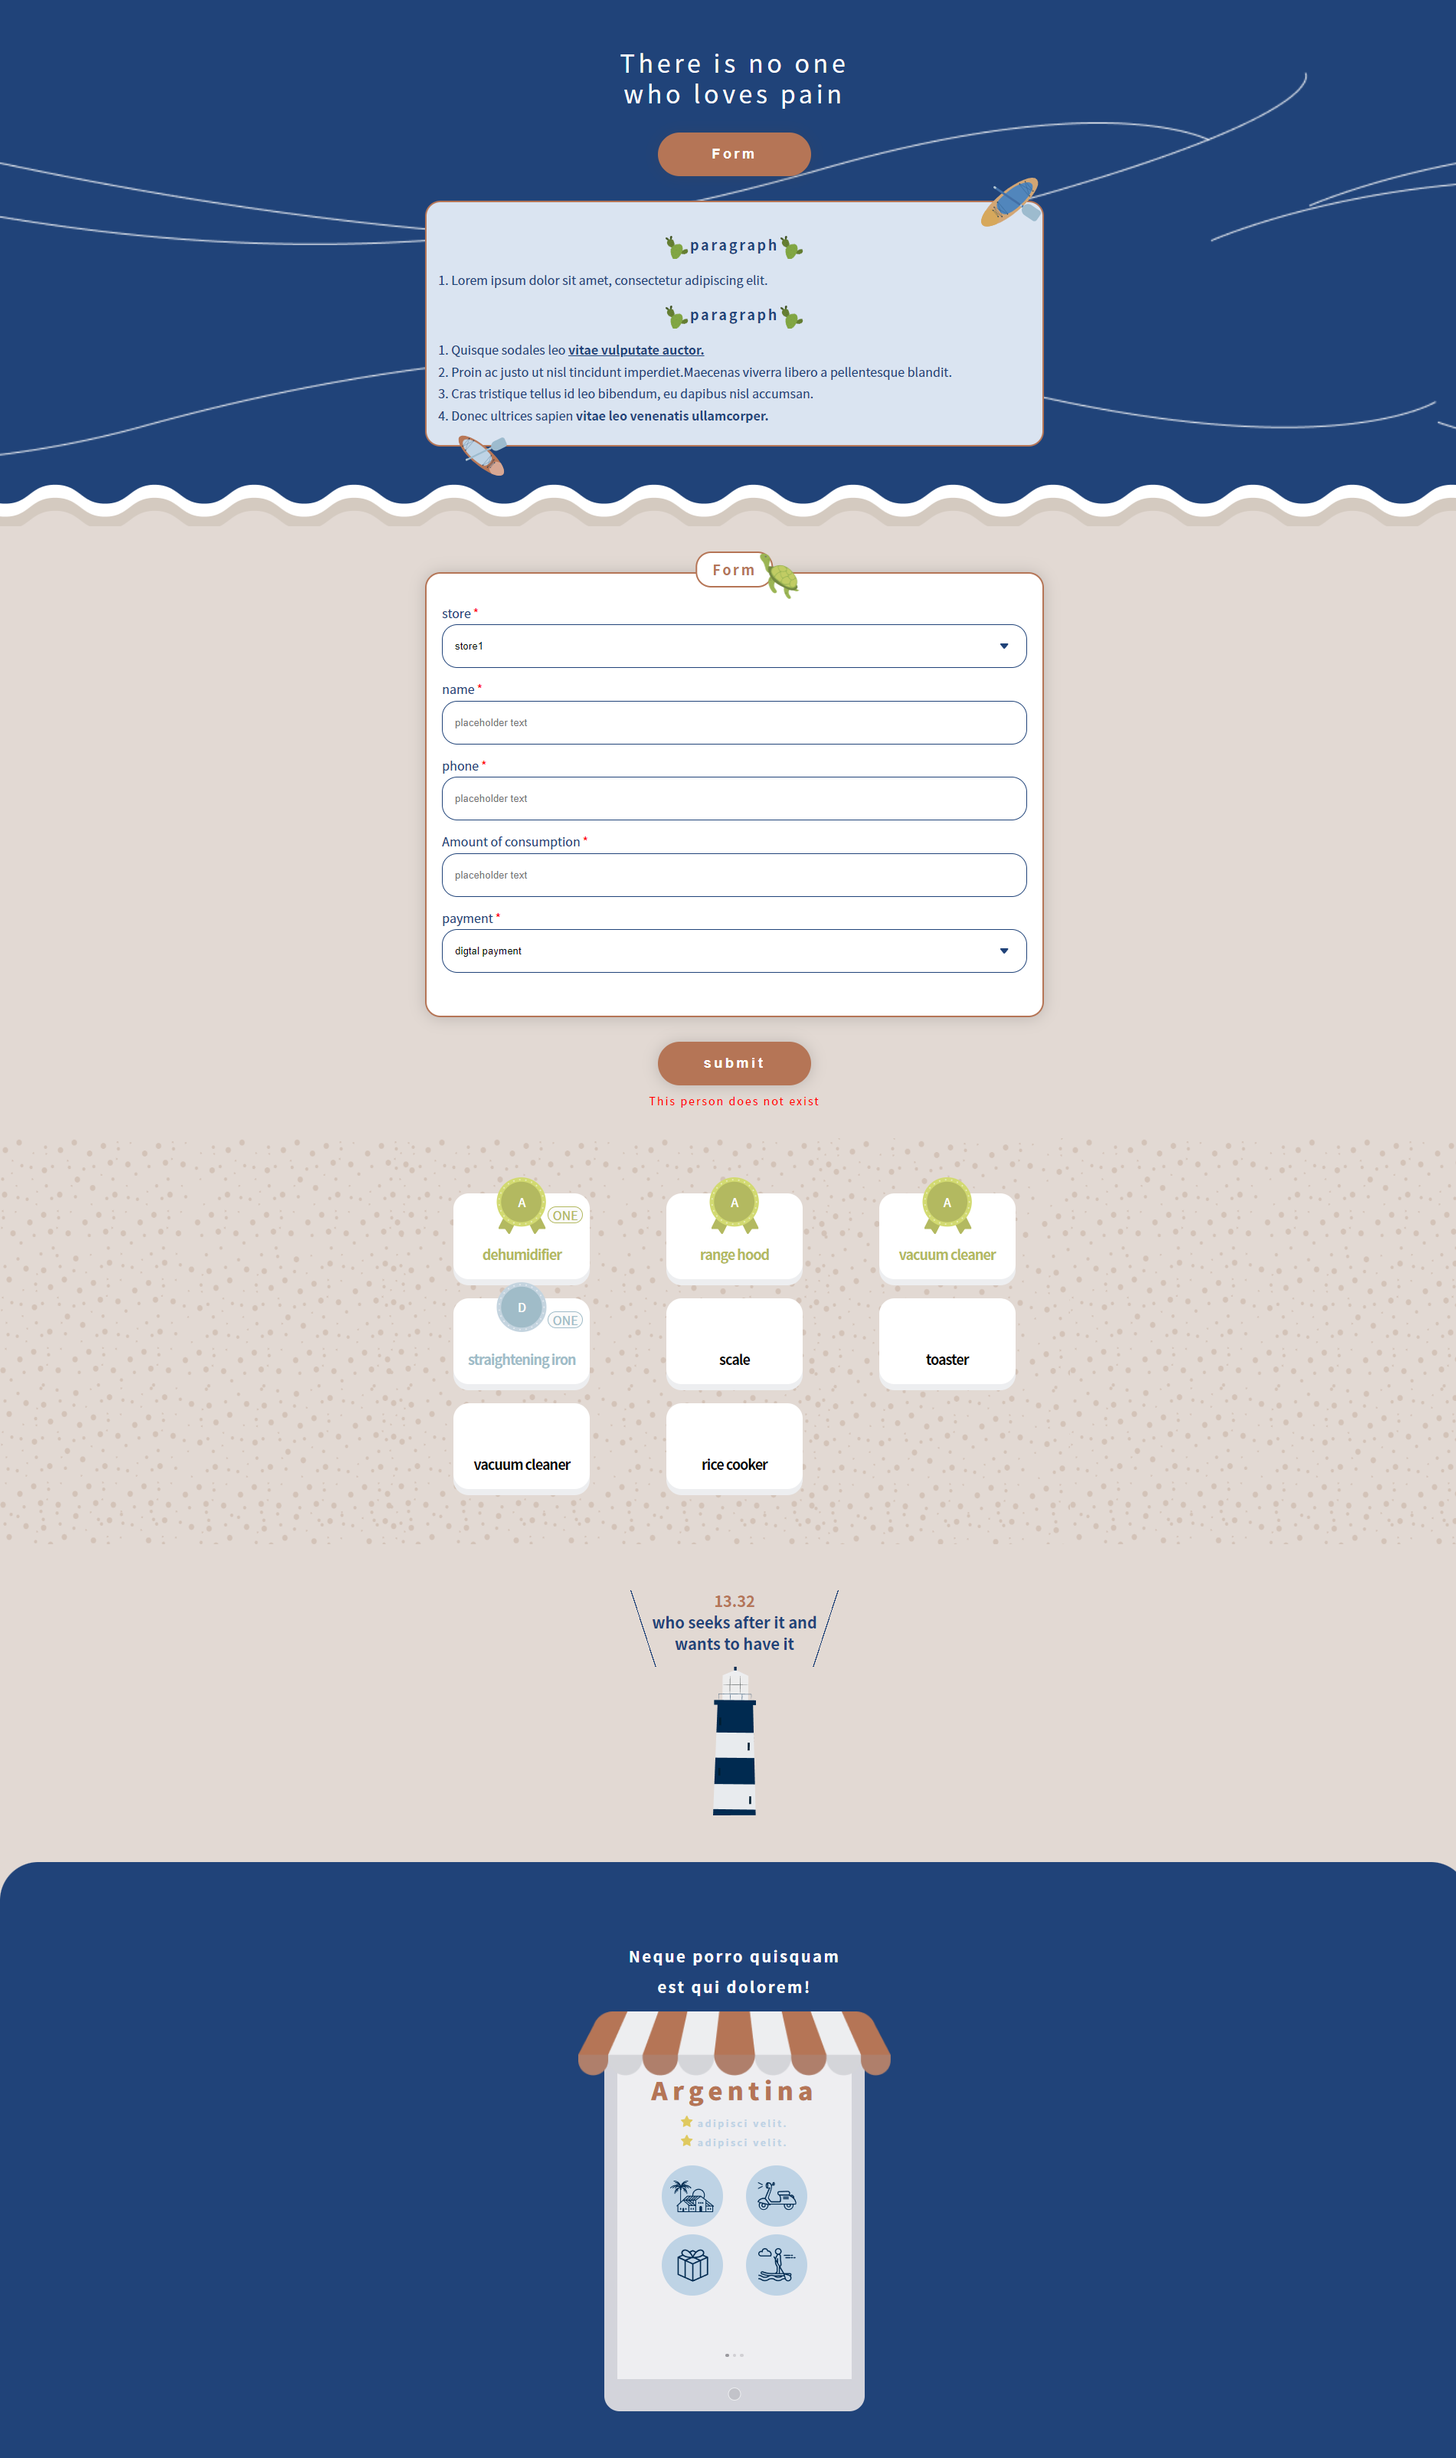
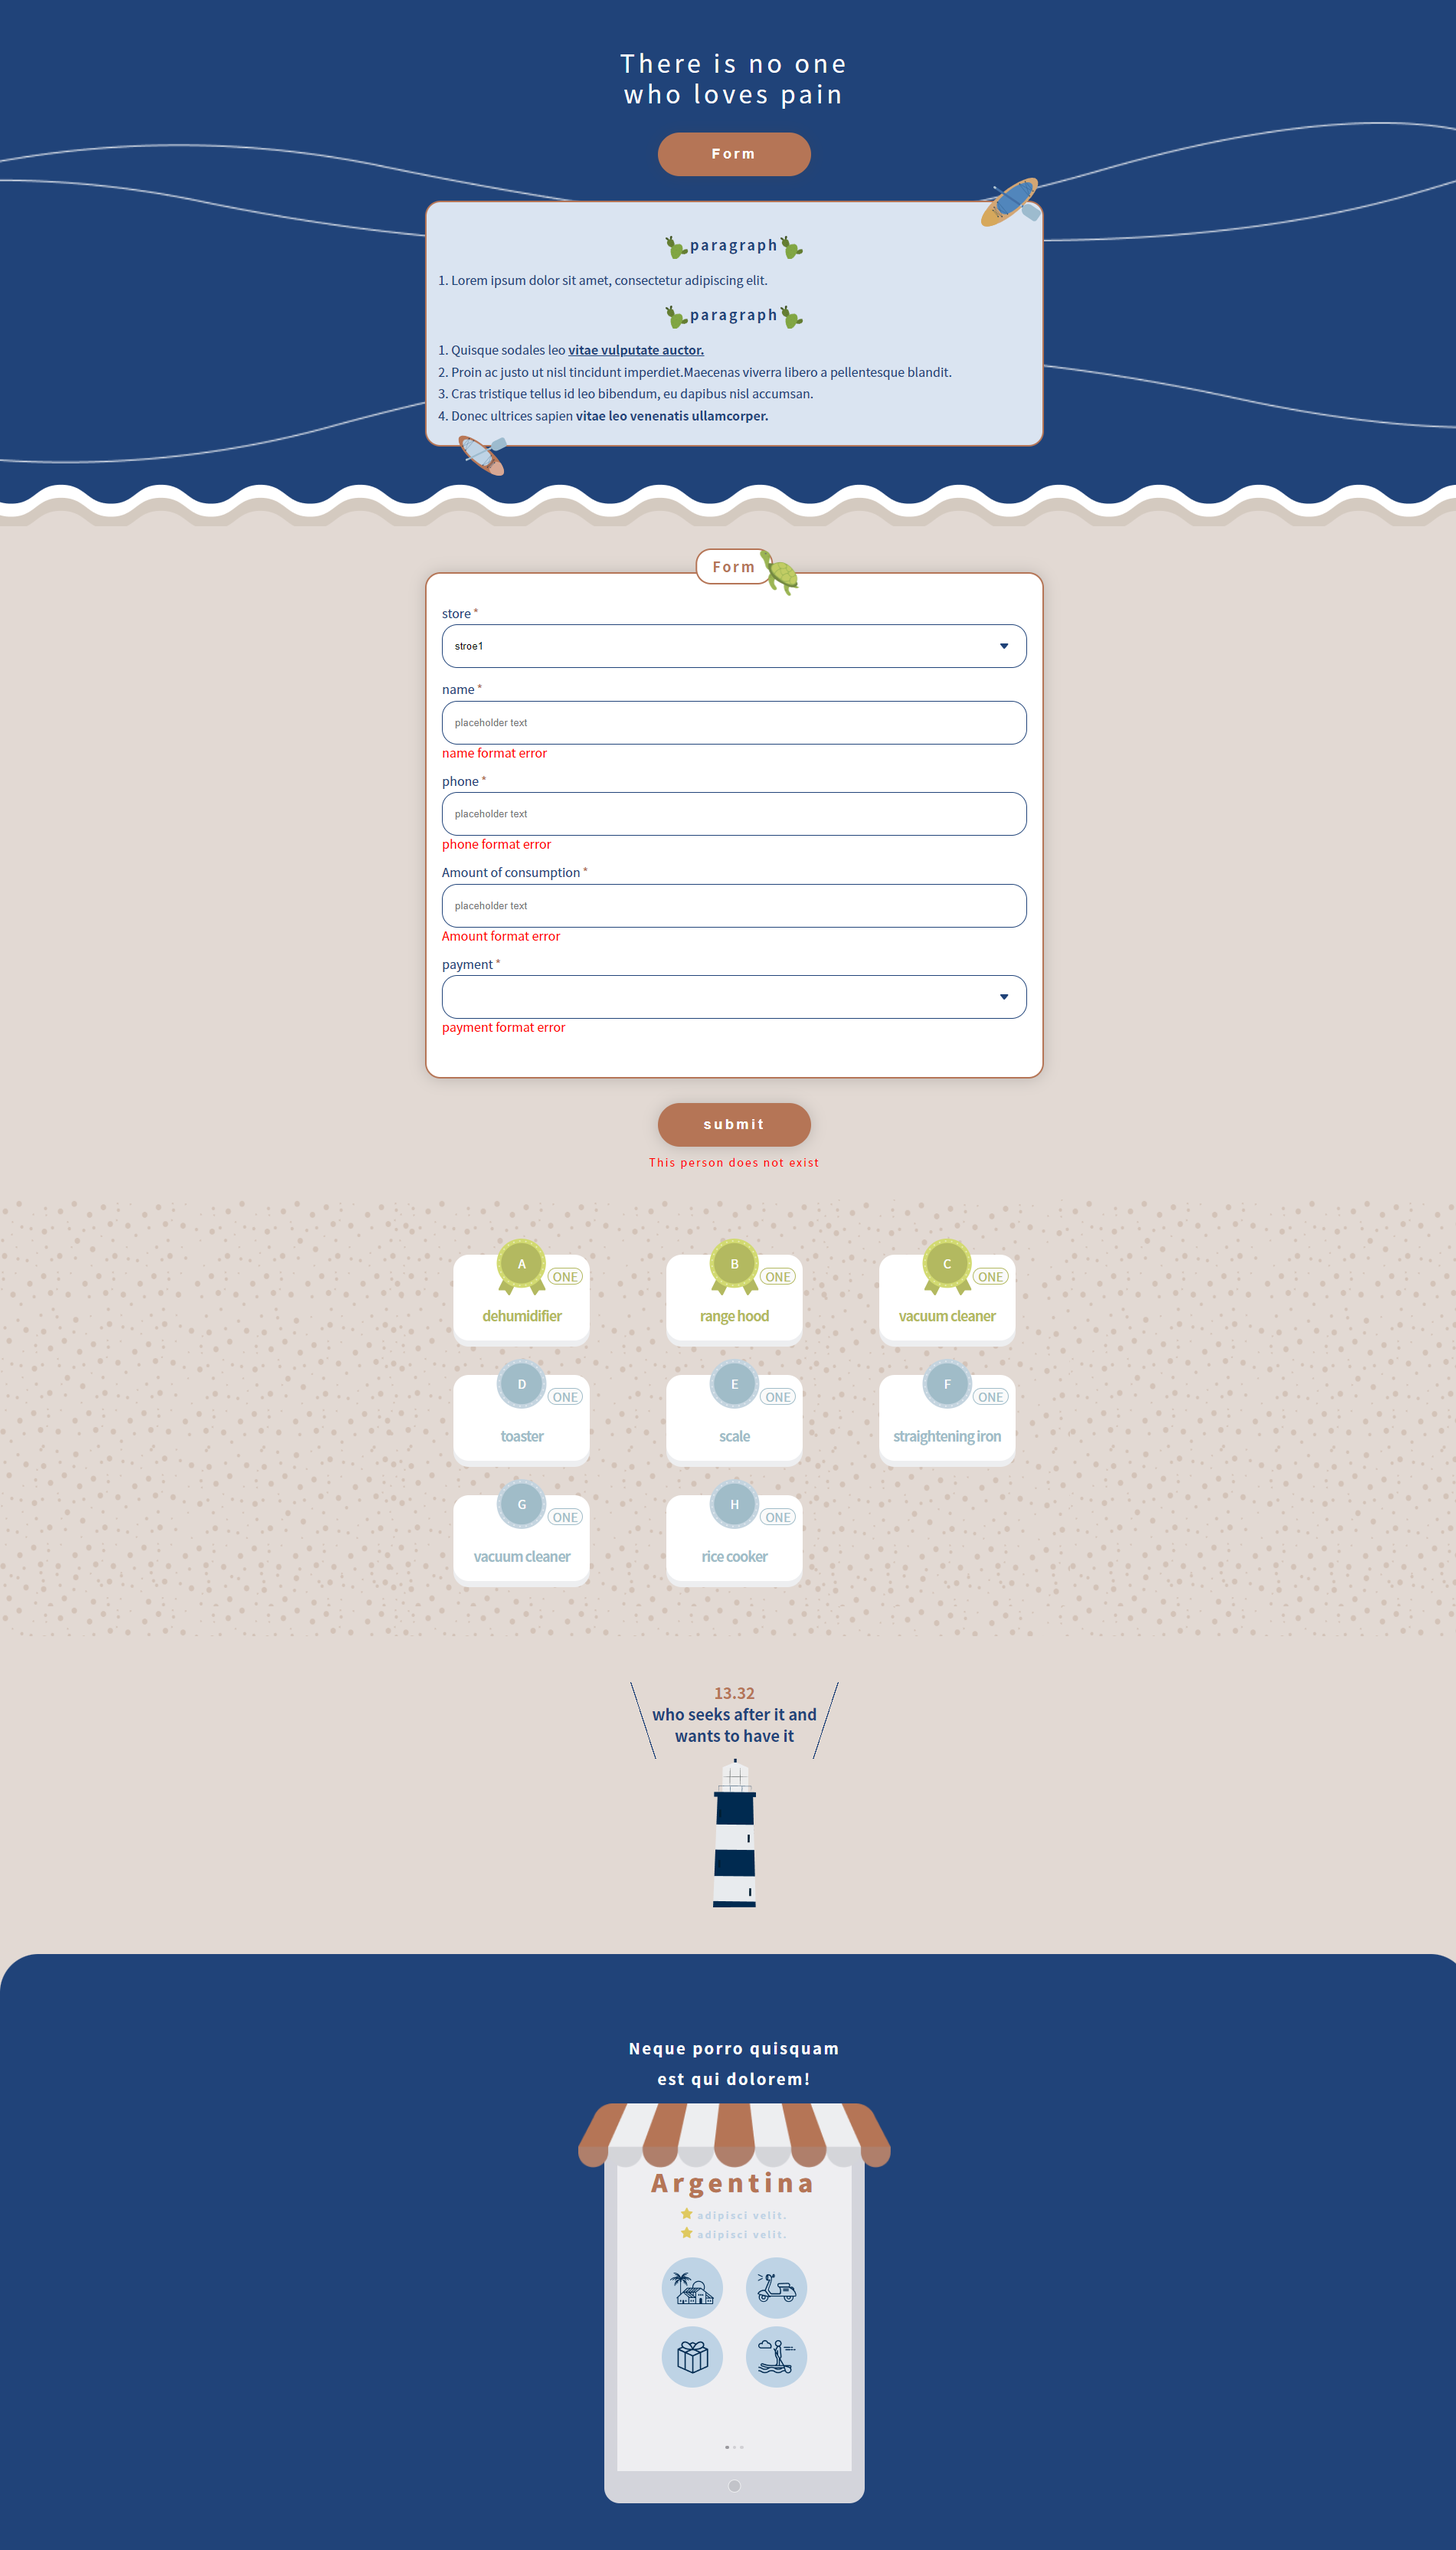
驗證格式全完成

diff --git a/src/components/formInput.vue b/src/components/formInput.vue
@@ -1,5 +1,5 @@
 <script>
-import { ref, reactive } from 'vue';
+import { ref, reactive,computed } from 'vue';
 export default {
     setup() {
     // get dom with input(name_ref, phone_ref, amount_ref)
@@ -8,12 +8,14 @@ export default {
     const amount_ref = ref(null);
     const payment_ref = ref(null);
     const form_btn = ref(null);
-    
+    const stroe_DatalistDOM = ref(null);
+      
     // data and userInput
-    const storeDataList = ref(['stroe1', 'stroe2', 'stroe3']);
+    const storeDataList = reactive(['stroe1', 'stroe2', 'stroe3']);
+    let storeFilter = reactive(['stroe1', 'stroe2', 'stroe3'])
     const reslutF = ref(false);
     // let checklist = reactive([true, false, false, false, false])
-    let checklist = reactive({store:true, name:false, phone:false, amount:false, payment:false})
+    let checklist = reactive({store:false, name:false, phone:false, amount:false, payment:false})
     // const checklist = ref([true, true, true, true, true]);
     const userInput = reactive({
       store: '',
@@ -39,6 +41,32 @@ export default {
         check ? payment_ref._rawValue.classList.remove('vaildError') : payment_ref._rawValue.classList.add('vaildError');
       }
     }
+
+    const stroeFoucs =()=>{
+     
+      if(stroe_DatalistDOM._rawValue.className.includes('d-none')){
+        stroe_DatalistDOM._rawValue.classList.remove('d-none');
+      }
+    }
+
+    // const stroeBlur = () => { 
+    //   if (!stroe_DatalistDOM._rawValue.className.includes('d-none')) {
+    //     改用CSS 處理
+    //     stroe_DatalistDOM._rawValue.classList.add('d-none');
+    //   }
+    // }
+
+    const vaildStore = ()=>{
+      let result = false
+      let temp =  storeFilter.filter(el => el === userInput.store)
+      console.log(temp)
+      console.log(`length`, temp.length)
+      if(temp.length !== 0 ){
+        result = true
+      } 
+      console.log(`result`,result)
+      return result
+    }
     const vaildName = () => {
       let nameRule = new RegExp('^[\u4e00-\u9fa5]+$|^[a-zA-Z\s]+$');
       // console.log(`after`, nameRule.test(userInput.name.trim()))
@@ -56,40 +84,51 @@ export default {
     }
 
     const vaildPayment =()=>{
-      console.log(userInput.payment.trim() !== '')
+      // console.log(userInput.payment.trim() !== '')
        return userInput.payment.trim() !==''
     }
     
-    
+    const clicklistItem = (item)=>{
+      console.log(`cc`, item)
+      userInput.store = item
+    }
+    const filterKW = computed(()=>{
+      // console.log(userInput.store)
+      // console.log(`2`, storeFilter.filter(el => el.includes(userInput.store)))
+      return storeFilter.filter(el=>el.includes(userInput.store))
+    })
+
 
     const submitCheck = () => {
       console.log(`check form is vaild`);
-      
-
+      reslutF.value = false
+      checklist = reactive({ store: false, name: false, phone: false, amount: false, payment: false })
       // 驗證格式
-      checklist.name = vaildName()
-      checklist.phone = vaildPhone()
-      checklist.amount = vaildAmount()
-      checklist.payment = vaildPayment()
-      console.log(checklist)
+      checklist.store = vaildStore()
+      checklist.name = vaildName();
+      checklist.phone = vaildPhone();
+      checklist.amount = vaildAmount();
+      checklist.payment = vaildPayment();
+      // console.log(checklist)
 
       // 檢查最終結果
-      let count= 0;
+      let count = 0;
       for (const result in checklist) {
-        console.log(result,":",checklist[result])
+        // console.log(result,":",checklist[result])
         if (checklist[result] === true) {
-          console.log(`for in true add count`)
+          // console.log(`for in true add count`)
           count++
         }else{
-          console.log(`for in false~ do noting`)
+          // console.log(`for in false~ do noting`)
         }
       }
-      const vaildCheck_length = Object.keys(checklist).length
+      const vaildCheck_length = 5
       if( parseInt(count) === parseInt(vaildCheck_length) ){
         reslutF.value = true;
       }
       
       console.log('finsh resltf:~',reslutF.value)
+      // 清空樣式
       form_btn._rawValue.classList.remove('btn-fail');
       form_btn._rawValue.classList.remove('btn-success');
        
@@ -105,12 +144,18 @@ export default {
     return {
       // dom elemnt
       name_ref, phone_ref, amount_ref, payment_ref, form_btn,
+      stroe_DatalistDOM,
 
+      // stroe Datalist
+      stroeFoucs, 
+      // stroeBlur,
+      //filter result
+      storeFilter,
       // vaildtor 
       userInput, storeDataList, checklist, reslutF,
-      submitCheck,
+      submitCheck, clicklistItem, filterKW,
       
-      vaildName, vaildPhone, vaildAmount, vaildPayment,
+      vaildStore,vaildName, vaildPhone, vaildAmount, vaildPayment,
       blurCheck, 
     }
   }
@@ -122,36 +167,43 @@ export default {
      <div class="block-container">
         <div class="formInputer br-2 b-shadow bradius-20" id="formInputer">
           <h5 class="formTitle p-2 bradius-20">Form</h5>
-          <div class="input">
+          <div class="multi-select input">
             <label for="input-store" class="p-1">store<span class="p-2">*</span></label>
-            <select placeholder="placeholder text" id="input-store" class="bradius-20">
+            <!-- <select placeholder="placeholder text" id="input-store" class="bradius-20">
               <option :value="store" v-for="store in storeDataList">{{ store }}</option>
-            
-            </select>
+            </select> -->
+            <input type="text" class="bradius-20" placeholder="placeholder text" id="input-store" @focus="stroeFoucs()" @input="seachKW"
+           v-model="userInput.store"/>
+            <!-- @blur="stroeBlur()" -->
+            <ul ref="stroe_DatalistDOM" class="d-none" >
+              <li v-for="store in filterKW" :value="store" @click="clicklistItem(store)">{{ store }}</li>    
+            </ul>
+            <!-- <span class="error" v-if="filterKW.length == 0 || userInput.store== ''">store format error</span> -->
+            <span class="error" v-if="!vaildStore()">required</span>
           </div>
            <div class="input">
               <label for="input-name" class="p-1">name<span class="p-2">*</span></label>
               <input type="text" placeholder="placeholder text" id="input-name" class="bradius-20" v-model="userInput.name" @blur="blurCheck('name')" ref="name_ref">
 
-              <span v-if="!vaildName()" class="error">name format error</span>
+              <span v-if="!vaildName()" class="error">required</span>
             </div>
              <div class="input">
               <label for="input-phone" class="p-1">phone<span class="p-2">*</span></label>
               <input type="text" placeholder="placeholder text" id="input-phone" class="bradius-20" v-model="userInput.phone" maxlength="10" @blur="blurCheck('phone')" ref="phone_ref">
-              <span v-if="!vaildPhone()" class="error">phone format error</span>
+              <span v-if="!vaildPhone()" class="error">required</span>
             </div>
              <div class="input">
               <label for="input-amount" class="p-1">Amount of consumption<span class="p-2">*</span></label>
               <input type="number" placeholder="placeholder text" id="input-amount" class="bradius-20" v-model.amount="userInput.amount" @blur="blurCheck('amount')" ref="amount_ref">
-               <span v-if="!vaildAmount()" class="error">Amount format error</span>
+               <span v-if="!vaildAmount()" class="error">required</span>
             </div>
              <div class="input">
               <label for="input-pay" class="p-1">payment<span class="p-2">*</span></label>
               <select placeholder="placeholder text" id="input-pay" class="bradius-20" v-model="userInput.payment" @blur="blurCheck('payment')" ref="payment_ref">
-                <option value="digtal payment" selected>digtal payment</option>
+                <option value="digtal payment" selected>required</option>
                 <option value="ATM">ATM</option>
               </select>
-              <span v-if="!vaildPayment()" class="error">payment format error</span>
+              <span v-if="!vaildPayment()" class="error">required</span>
             </div>
         </div>
         <button class="form-btn b-shadow" ref="form_btn" @click="submitCheck">submit</button>
@@ -214,8 +266,83 @@ export default {
           background-repeat:no-repeat;
           height: 70px;
           width: 165%;
+
+          transform: translate(18px, -11px) rotate(8deg);
+          animation: movePosition 6s infinite ease-in-out alternate;
+
+          @keyframes movePosition {
+            0% {
+              transform : translate(18px, -11px) rotate(8deg);
+            }
+            27% {
+              transform : translate(12px, 7px) rotate(-10deg);
+            }
+            77%{
+               transform : translate(5px, 10px) rotate(-7deg);
+            }
+            100% {
+               transform: translate(18px, -11px) rotate(8deg);
+            }
+          }
+        }
+        &::before{
+          
+        } 
+      }
+      .multi-select.input {
+        position: relative;
+        width: 100%;
+        height: 57px;
+        margin-bottom: 48px;
+
+        input {
+          position: relative;
+          width: 100%;
+          height: 57px;
+          background: #FFFFFF;
+          border: 1px solid #204379;
+          padding: 8px 16px; 
+          z-index: 9;
+          &::after{
+            content: '';
+            display: block;
+            position: absolute;
+            right: 0%;
+            background-image: url('~@/assets/images/arrow.png');
+          }
+          &:not(:focus) + ul{
+            opacity: 0;
+            user-select: none;
+           
+          }
+        }
+        ul {
+          position: absolute;
+         
+          border: 1px solid #ccc;
+          border-top: none;
+          list-style: none;
+          background-color: #fff;
+          overflow-y: scroll;
+          // max-height: 150px;
+          width: 96%;
+          left: 2%;
+          // display: none;
+
+          li {
+            padding: 5px;
+            cursor: pointer;
+          }
+          li:hover {
+            background-color: #eee;
+          }
+          li.selected {
+            background-color: #337ab7;
+            color: #fff;
+          }
         }
       }
+    
       .input{
         &+.input{
           margin: 16px 0;
@@ -287,7 +414,7 @@ export default {
       }
 
       .error{
-        color: red;
+        color: #E06D6D;
         display: block;
         line-height: 1.25;
         text-align: left;

diff --git a/src/Mainform.vue b/src/Mainform.vue
@@ -54,6 +54,7 @@ body{
 // class style 公用項目
   .underline {
     text-decoration: underline;
+    cursor: pointer;
   }
 
   .bold {
@@ -129,7 +130,10 @@ body{
       }
     }     
   }
-  
+  .d-none{
+    // display: none;
+    visibility: hidden;
+  }
   .br-2{
     border: 2px solid #B57556;
   }
@@ -145,7 +149,7 @@ body{
   // @include mobile(){}
 
 .sub-title.error{
-  color: red;
+  color: #E06D6D;
   margin: -20px auto;
 }
 </style>

diff --git a/src/components/formIntro.vue b/src/components/formIntro.vue
@@ -14,7 +14,7 @@ export default {
       const startPos = window.pageYOffset;
       const diff = top;
       const duration = 1200;
-      const yOffset = -100;
+      const yOffset = -75;
 
       let startTime = null;
       let requestId;
